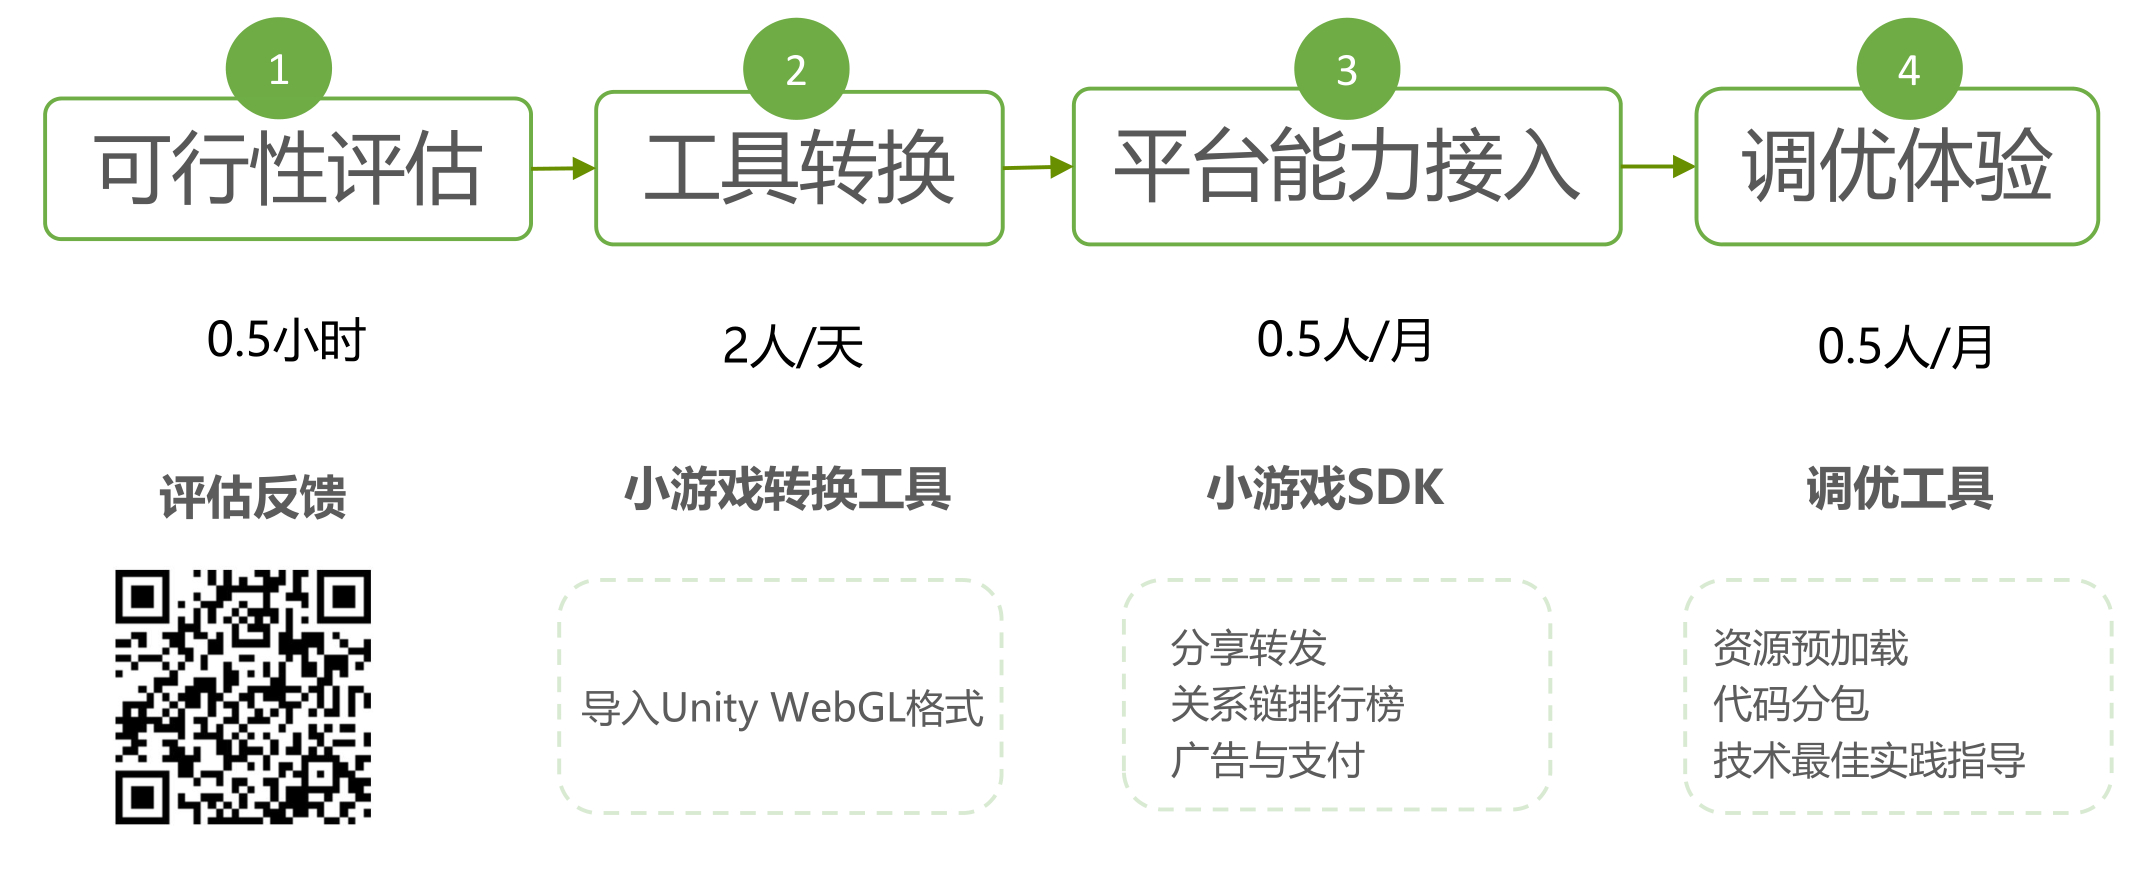
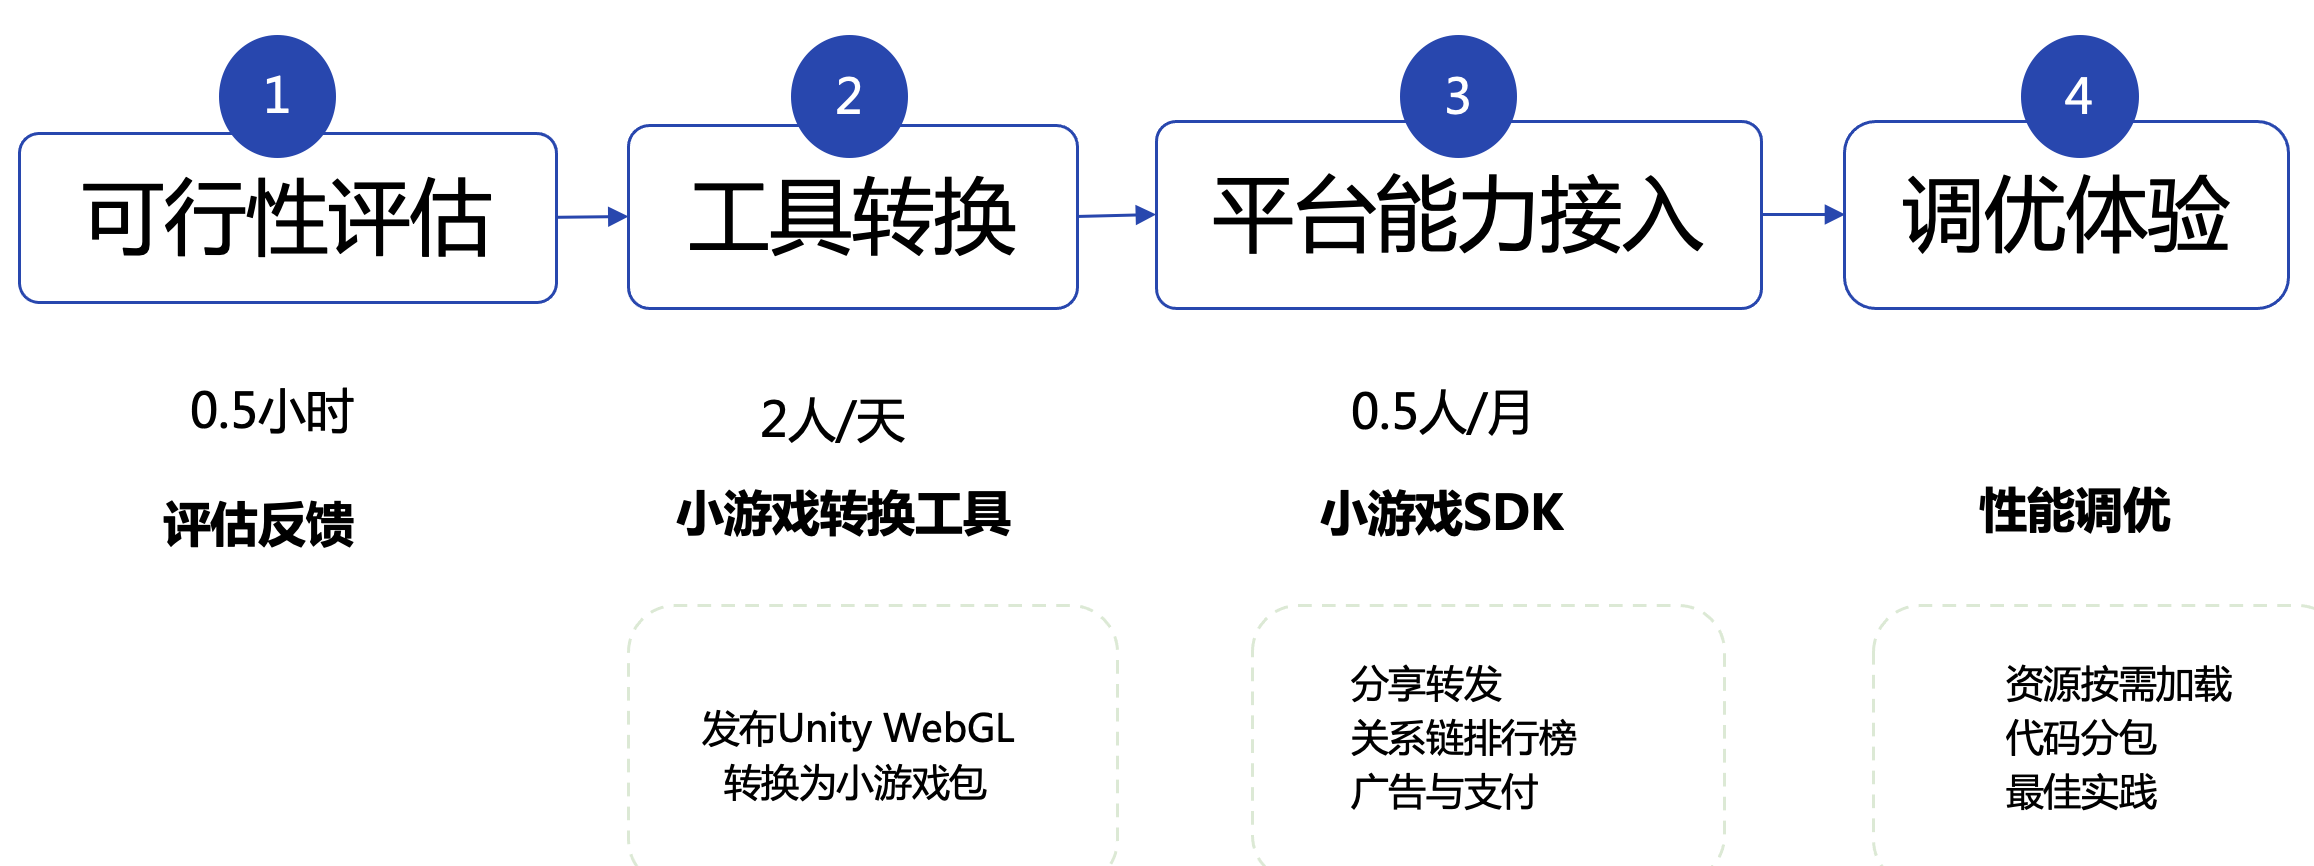
修改首页说明

diff --git a/Design/Transform.md b/Design/Transform.md
@@ -1,25 +1,15 @@
 # 转换工具导出微信小游戏
->当前文档适用导出工具版本202104011707，独立域插件版本0.0.93
-## 一、 前置要求
-1. 已验证Unity版本：2018.3/2018.4LTS、2019.2/2019.4LTS
-安装时选择WebGL组件
-2. 如果你用的是Big Sur版本的Mac系统，并且Unity 版本小于 2019.4.14, 则需另外安装 [python3](https://www.python.org/downloads/)，并安装brotli 命令如下
-```
-python3 -m pip install brotli  
-```
 
-## 二、Unity导出WebGL
+## 一、Unity导出WebGL
 
-1. 下载 [Unity插件](https://res.wx.qq.com/wechatgame/product/webpack/userupload/wasm_plugin/minigame.unitypackage), 并导入至游戏项目中
-
-2. 添加需要导出的scene
+添加需要导出的scene
    
 <image src='../image/scene.png' width="600"/>
 
 建议仅勾选Loading场景，后续场景使用AssetsBundle/Addressable进行按需加载。
 
 
-## 三、适配小游戏
+## 二、适配小游戏
 1. Mac上授权  
 因为Mac上的隐私安全问题，使用mac的用户需要先授权，使用window的用户跳过这步。点击"微信小游戏"->"MacOS脚本授权",进行授权，直到不报错为止。若授权后还是报错，重启unity后再点授权试试。
 2. 选择 点击 微信小游戏 -> 转换小游戏， 填写相应参数，点击`导出WEBGL并转换为小游戏`按钮 ，等待转换完成。
@@ -49,30 +39,20 @@ python3 -m pip install brotli
 
 至此，可以在[微信开发者工具](https://developers.weixin.qq.com/miniprogram/dev/devtools/download.html)打开转化后的小游戏进行预览。
  
-## 四、使用脚本集成到自己的构建系统
+## 三、使用脚本集成到自己的构建系统
 如果你希望将导出插件集成到自己的发布流程，想脚本调用的话，可修改 Assets/WX-WASM-SDK/Editor/MiniGameConfig.asset配置，然后调用WXEditorWindow 的 DoExport方法导出小游戏   
  ```
  var win = new WXEditorWindow();
  win.DoExport();
  ```
 
-## 五、常见问题
-1. 微信版本与运行时基础要求是什么？
-
-* Android版本必须>=7.0.19
-* iOS版本必须>=7.0.18
-* 基础库版本必须>=2.14.0
-具体支持情况参考[支持平台](SupportedPlatform.md)
-
-2. 为什么运行时出现奇怪的“Maximun call stack size exceeded.RangeError”或“Not Impletemented: Class::FromIL2CPPType”？
- Unity WebGL 首包资源data文件含有metadata，如果data资源包和wasm对不上会有各种问题，尤其在**浏览器**运行时需清理IndexedDB中的缓存。
-
-3. 为什么资源或网络请求在打开"vConsole"正常，关闭时下载失败？
+## 四、常见问题
+1. 为什么资源或网络请求在打开"vConsole"正常，关闭时下载失败？
 网络请求必须**配置安全域名**：https://developers.weixin.qq.com/minigame/dev/guide/base-ability/network.html
 打开"vConsole"时，小游戏默认不检查因此能请求通过。
 
-4. 中文字体适配
+2. 中文字体适配
 字体必须打包到项目中，才能正常展示。
 
-5. 音频被切到后台会停止
+3. 音频被切到后台会停止
 小游戏被切到后台会停止播放音频需代码中监听 [WX.OnShow](https://developers.weixin.qq.com/minigame/dev/api/base/app/life-cycle/wx.onShow.html)事件和 [WX.OnAudioInterruptionEnd](https://developers.weixin.qq.com/minigame/dev/api/base/app/app-event/wx.onAudioInterruptionEnd.html)事件，在该事件之后重新播放音频

diff --git a/Design/Summary.md b/Design/Summary.md
@@ -1,42 +1,38 @@
 # Unity WebGL小游戏适配方案概述
-## 一、介绍
-## 1.1 什么是Unity WebGL小游戏适配方案
-简单来讲：本方案是支持Unity WebGL导出格式在微信小游戏环境的运行适配。 
-因此，开发者无需更换Unity引擎与重写核心代码的情况下发布到微信小游戏。
-
-## 1.2 技术原理
+## 一、技术原理
 
 <image src='../image/summary1.png' width="1080"/>
-方案特点：
 
-1. 原Unity项目需能支持发布为WebGL，由转换工具与微信小游戏运行环境保证适配兼容
-2. 微信小游戏平台能力以C# SDK方式提供给开发者，无需JavaScript即可对接平台开放能力
-3. 支持游戏中使用的第三方插件(C原生插件除外)
+Unity的BuildTarget支持WebGL平台，WebGL导出包是基于WebAssembly技术运行在浏览器环境。 
+为了能让导出包运行在微信小游戏环境，我们提供了以下支持：
+* 开发阶段：提供平台能力的C# SDK帮助开发者快速对接平台能力 
+* 导出阶段：转换打包工具，进行Unity WebGL胶水层适配，直接转换成小游戏包 
+* 运行阶段，提供WebAssembly基础能力，微信底层接口支持
 
 
 ## 二、接入流程
 接入流程主要包含以下几个环节：
-<image src='../image/summary2.png' width="800"/>
+<image src='../image/summary2.png'/>
 
 > 注：图中每个环节的人力时间为预计，具体时间因具体项目不同。
 
-### 2.1 评估反馈
+### 评估反馈
 我们为接入游戏提供了评估表，问卷内容是本转换方案最重要的影响因素。当根据实际项目填写之后与我们联系后一起评估可行性和技术风险点，详细内容请参考[方案评估](Evaluation.md)。
 
-### 2.2 工具转换
+### 工具转换
 我们提供了**Unity转换插件**帮助开发者将项目自动导出为微信小游戏包，随后即可使用微信开发者工具或Android/iOS真机进行预览。
 关于转换工具的使用请参考文档：
 * [使用转换工具导出微信小游戏](Transform.md)
 
-### 2.3 平台能力接入
+### 平台能力接入
 
 微信小游戏平台提供众多开放能力，但目前是以JavaScript API形式提供。
 为了降低开发者进行平台能力对接的门槛，我们提供了平台能力C# SDK，因此依然可以熟悉的C#接口进行平台能力使用。
 关于平台能力C# SDK请参考文档：
 * [WX SDK平台能力适配](WX_SDK.md) 
 
-### 2.4 调优体验
+### 调优体验
 转换工具能帮助开发者快速转换原有Unity项目，然而对于优质的小游戏我们还需要更多的体验调优以取得良好的上线表现。
 关于调优请参考文档：
-* [Unity WebGL小游戏转换方案性能标准](PerfMeasure.md)
-* [提升Unity WebGL游戏启动速度](StartupOptimization.md)
+- [性能优化总览](Design/PerfOptimization.md)
+- [性能评估标准](Design/PerfMeasure.md)

diff --git a/README.md b/README.md
@@ -1,22 +1,41 @@
 # Unity WebGL 小游戏适配方案(公测)
 
-欢迎使用 Unity WebGL 小游戏适配(转换)方案，本方案设计目的是**降低 Unity 游戏转换到微信小游戏的开发成本**。开发者无需更换 Unity 引擎工作流与重写核心代码的情况下，将原有游戏项目适配到微信小游戏。
+欢迎使用 Unity WebGL 小游戏适配(转换)方案，本方案设计目的是**降低 Unity 游戏转换到微信小游戏的开发成本**。基于WebAssembly技术，开发者无需更换 Unity 引擎工作流与重写核心代码的情况下，将原有游戏项目适配到微信小游戏。
+ 
+## 方案特点
+* 保持原引擎工具链与技术栈
+* 无需重写游戏核心逻辑，支持大部分第三方插件
+* 由转换工具与微信小游戏运行环境保证适配兼容，保持较高还原度
+* 微信小游戏平台能力以C# SDK方式提供给开发者，快速对接平台开放能力
+<br>
+<br>
 
-# 文档总览
+## 转换案例
+<image src='image/showcase11.png' width="200"/>
 
-概述
+- [更多转换案例](Design/ShowCase.md)
+<br>
+<br>
 
-- [方案概述](Design/Summary.md)
-- [支持平台](Design/SupportedPlatform.md)
-- [转换案例](Design/ShowCase.md)
+## 安装与使用
 
-工具指引
+下载 [Unity插件](https://res.wx.qq.com/wechatgame/product/webpack/userupload/wasm_plugin/minigame.unitypackage), 并导入至游戏项目中。
 
-- [方案兼容性评估](Design/Evaluation.md)
-- [快速开始：转换工具导出微信小游戏](Design/Transform.md)
+> 已验证Unity版本：2018.3/2018.4LTS、2019.2/2019.4LTS. 安装时选择WebGL组件。
+> 如果你用的是Big Sur版本的Mac系统，并且Unity 版本小于 2019.4.14, 则需另外安装 python3，并安装brotli 命令如下: python3 -m pip install brotli
+
+[快速开始：转换工具导出微信小游戏](Design/Transform.md)
+<br>
+<br>
+
+ 
+## 文档总览
+方案概述与兼容性
+- [技术原理与流程](Design/Summary.md)
+- [兼容性评估](Design/Evaluation.md)
+- [更多转换案例](Design/ShowCase.md)
 
 性能优化
-
 - [性能优化总览](Design/PerfOptimization.md)
 - [性能评估标准](Design/PerfMeasure.md)
 - 启动性能

diff --git a/Design/Evaluation.md b/Design/Evaluation.md
@@ -7,7 +7,7 @@
 
 
 ## 需要注意的事项
-### 1、关于游戏类目
+### 1. 游戏类目
 考虑到游戏体积与逻辑复杂度，目前建议中轻度2D/3D游戏进行转换，游戏类目包括：
 * 休闲：消除，答题，模拟经营，塔防，益智等
 * 动作：跑酷，飞行设计，轻度IO
@@ -17,7 +17,7 @@
 对重度游戏如MMO/FPS等游戏需根据实际情况评估  
 
 
-### 2. 关于引擎版本
+### 2. 引擎版本
 
 本转换方案目前支持：
 * Unity 2018
